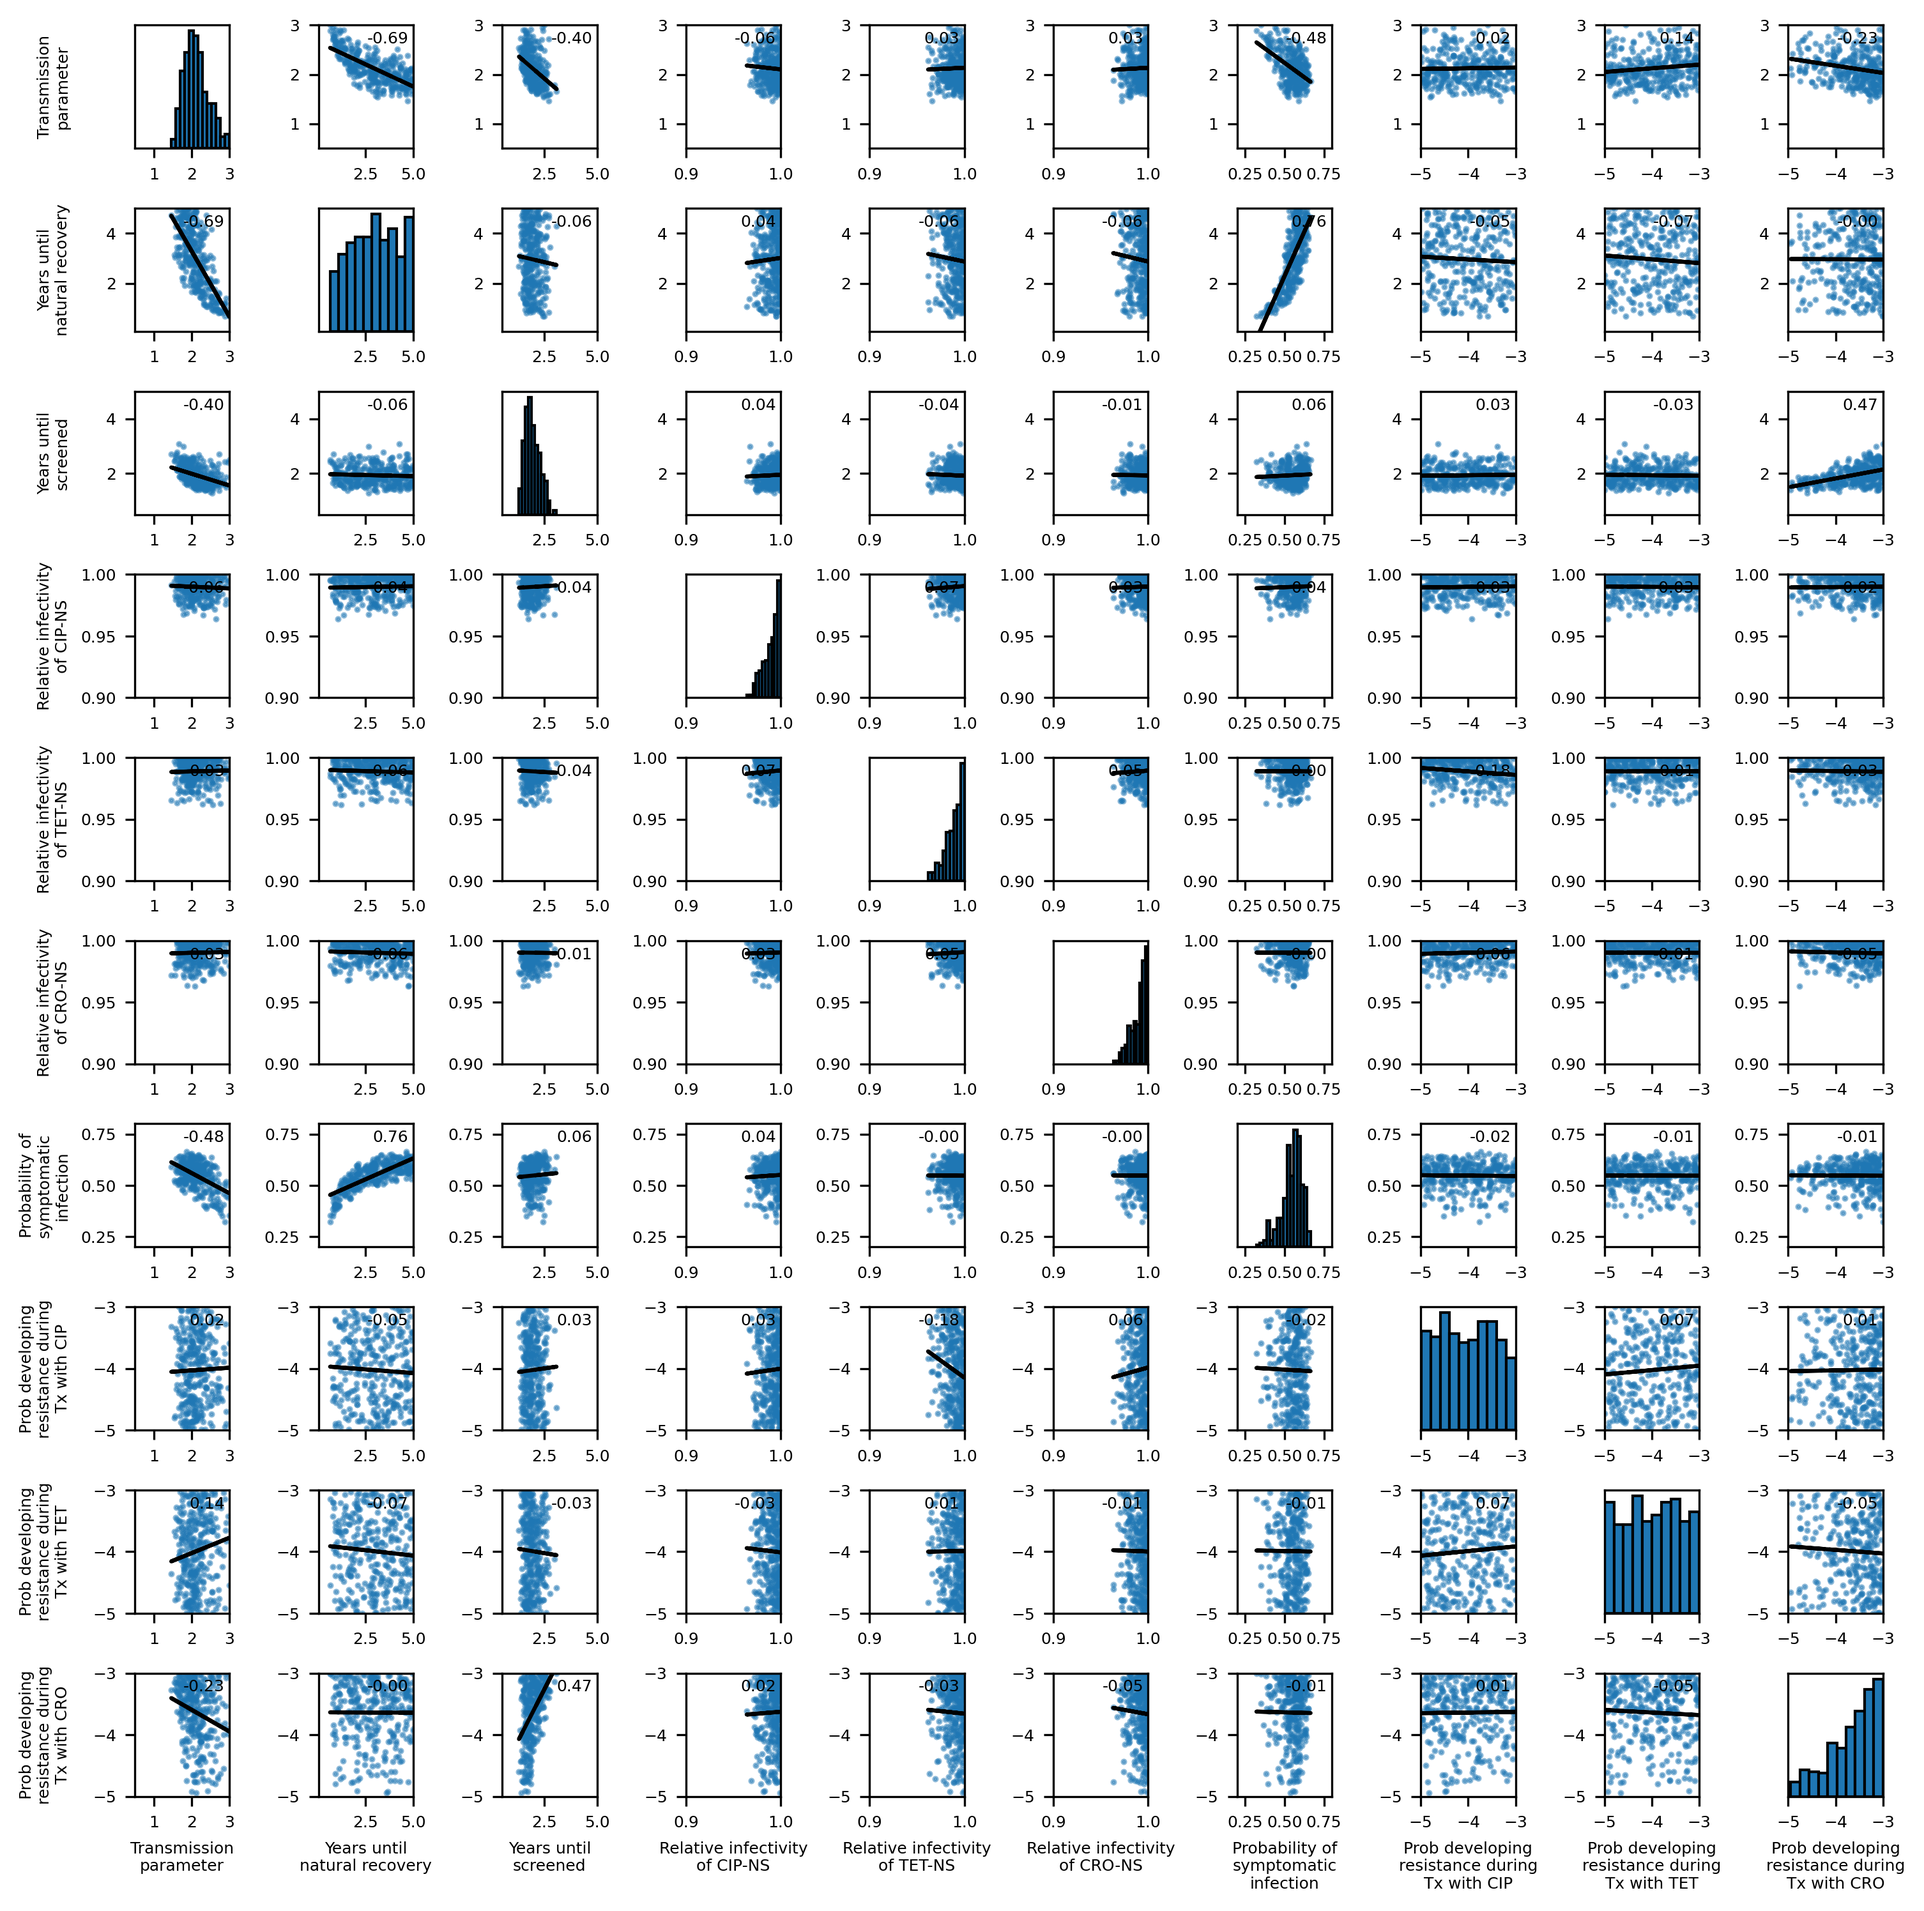
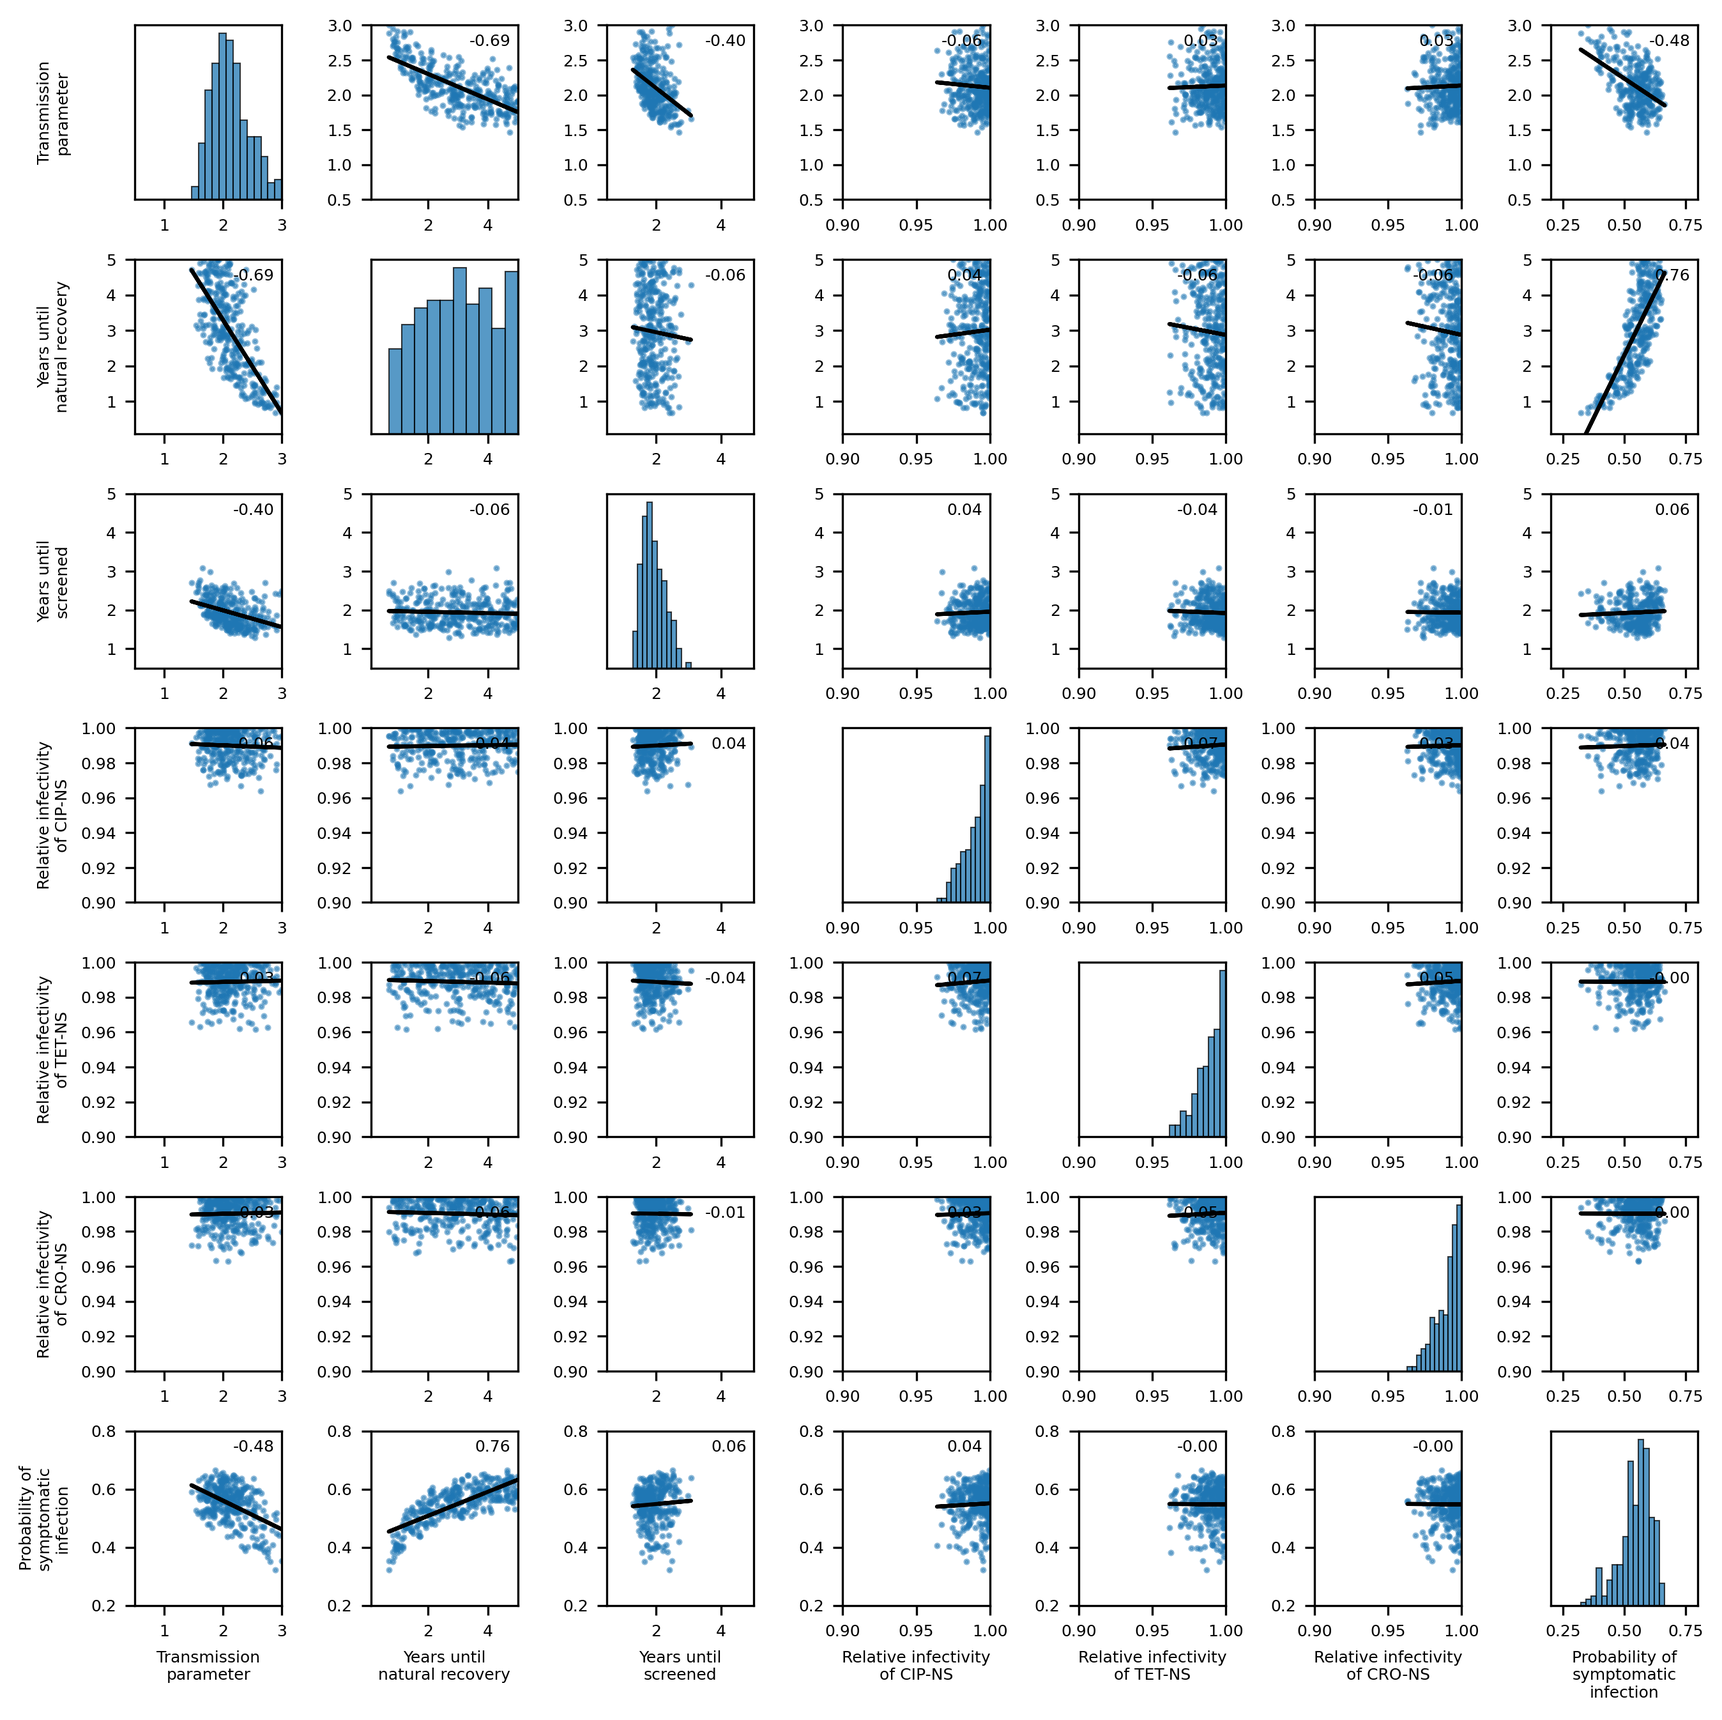
parameter pairwise

Changed region(s): [[0.0, 0.0, 0.997, 0.9985], [0.0, 0.1248, 0.0312, 0.156]]

diff --git a/model/support.py b/model/support.py
@@ -135,10 +135,10 @@ def estimate_parameters(n_of_resamples,
         'Relative infectivity by infectivity profile-1',
         'Relative infectivity by infectivity profile-2',
         'Relative infectivity by infectivity profile-3',
-        'Prob symptomatic',
-        'Exponent for the prob of resistance by antibiotics-0',
-        'Exponent for the prob of resistance by antibiotics-1',
-        'Exponent for the prob of resistance by antibiotics-2'
+        'Prob symptomatic'
+        # 'Exponent for the prob of resistance by antibiotics-0',
+        # 'Exponent for the prob of resistance by antibiotics-1',
+        # 'Exponent for the prob of resistance by antibiotics-2'
     ]
     # print('\nPosterior distributions:')
     # estimator.print_means_and_intervals(param_names=param_list_for_table)
@@ -148,4 +148,5 @@ def estimate_parameters(n_of_resamples,
 
     estimator.plot_pairwise(fig_filename=figure_folder+'/posterior.png',
                             par_names=param_list_for_figure,
-                            prior_info_csv_file=ROOT_DIR + '/model/data/priors.csv')
+                            prior_info_csv_file=ROOT_DIR + '/model/data/priors.csv',
+                            figure_size=(9, 9))

diff --git a/analysis/estimate_parameters.py b/analysis/estimate_parameters.py
@@ -1,5 +1,5 @@
 from calibrate import N_OF_RESAMPLES_FOR_PARAM_ESTIMATION
-from definitions import get_scenario_name, ROOT_DIR, SIM_DURATION
+from definitions import get_scenario_name, ROOT_DIR
 from model.support import estimate_parameters
 
 """
@@ -12,7 +12,7 @@ def estimate_parameters_of_a_scenario(if_m_available, calibration_seed):
 
     # scenario name
     scenario_name = get_scenario_name(
-        if_m_available=if_m_available, sim_duration=SIM_DURATION, calibration_seed=calibration_seed)
+        if_m_available=if_m_available, calibration_seed=calibration_seed)
 
     calibration_folder = ROOT_DIR+'/analysis/outputs/{}/calibration'.format(scenario_name)
 

diff --git a/definitions.py b/definitions.py
@@ -240,7 +240,7 @@ def get_sens_analysis_names_and_definitions(include_sens_analysis_on_sens_spec=F
     return names, definitions
 
 
-def get_scenario_name(if_m_available, sim_duration, calibration_seed=None):
+def get_scenario_name(if_m_available, sim_duration=None, calibration_seed=None):
     """
     :param if_m_available:
     :param sim_duration:
